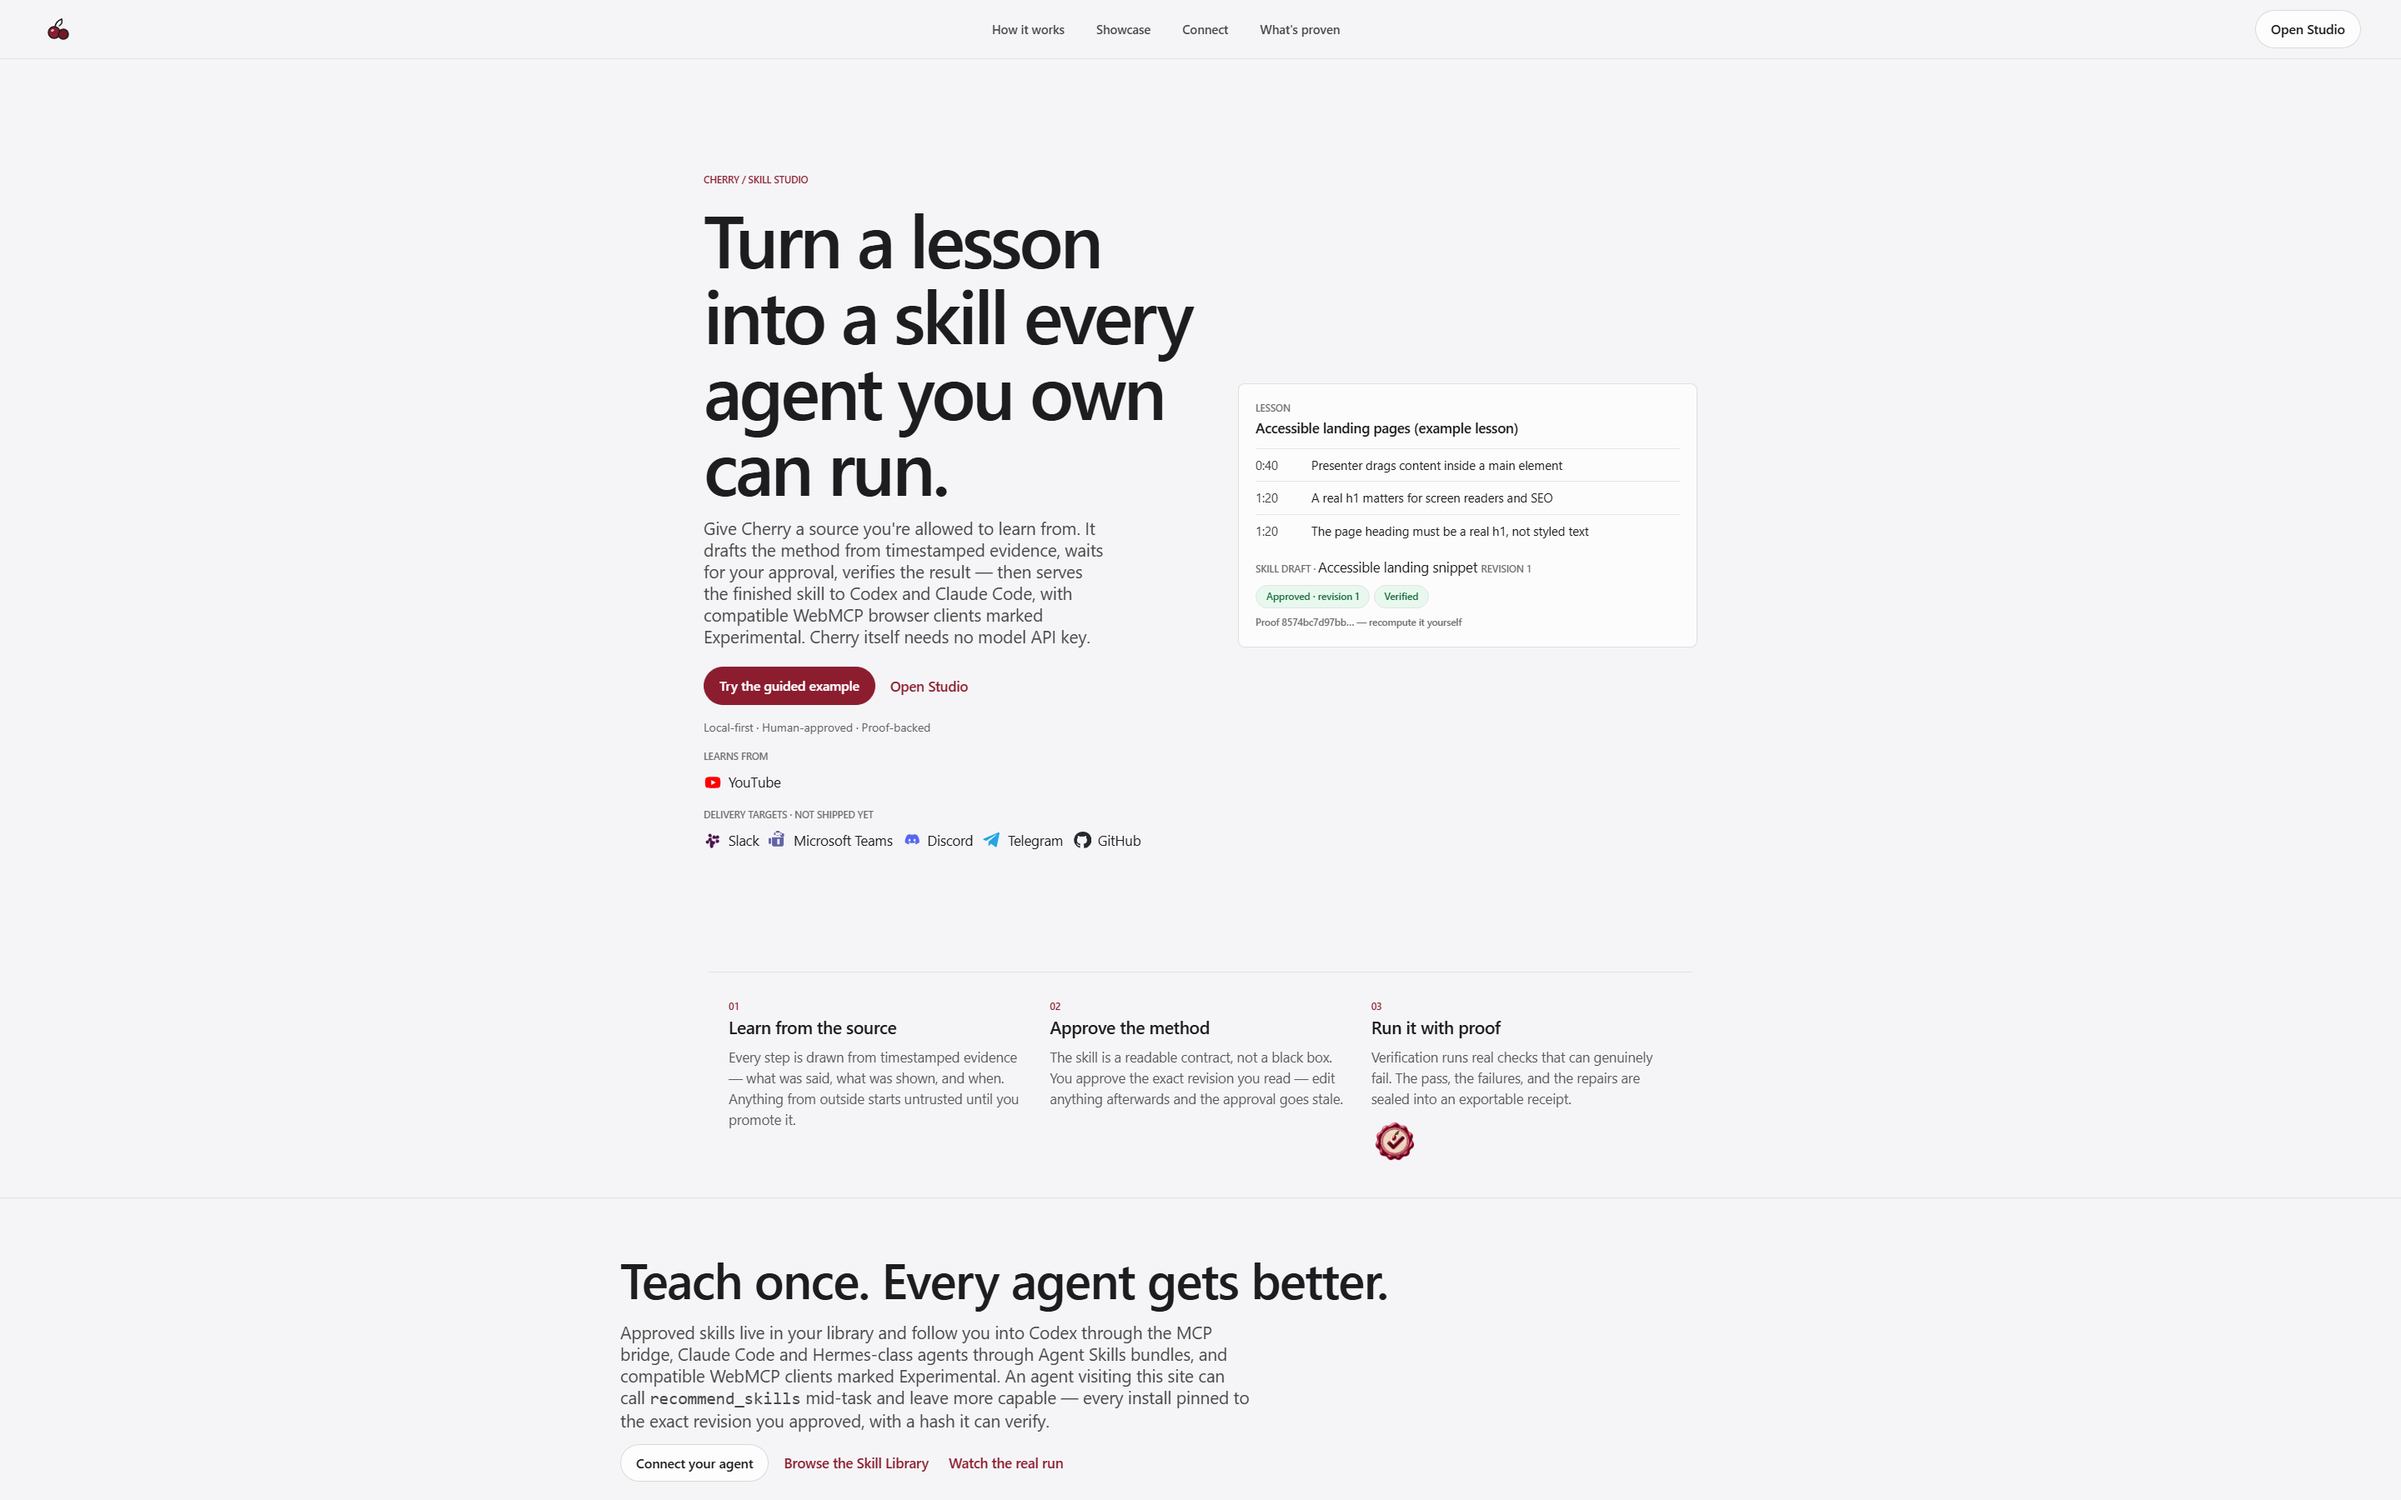
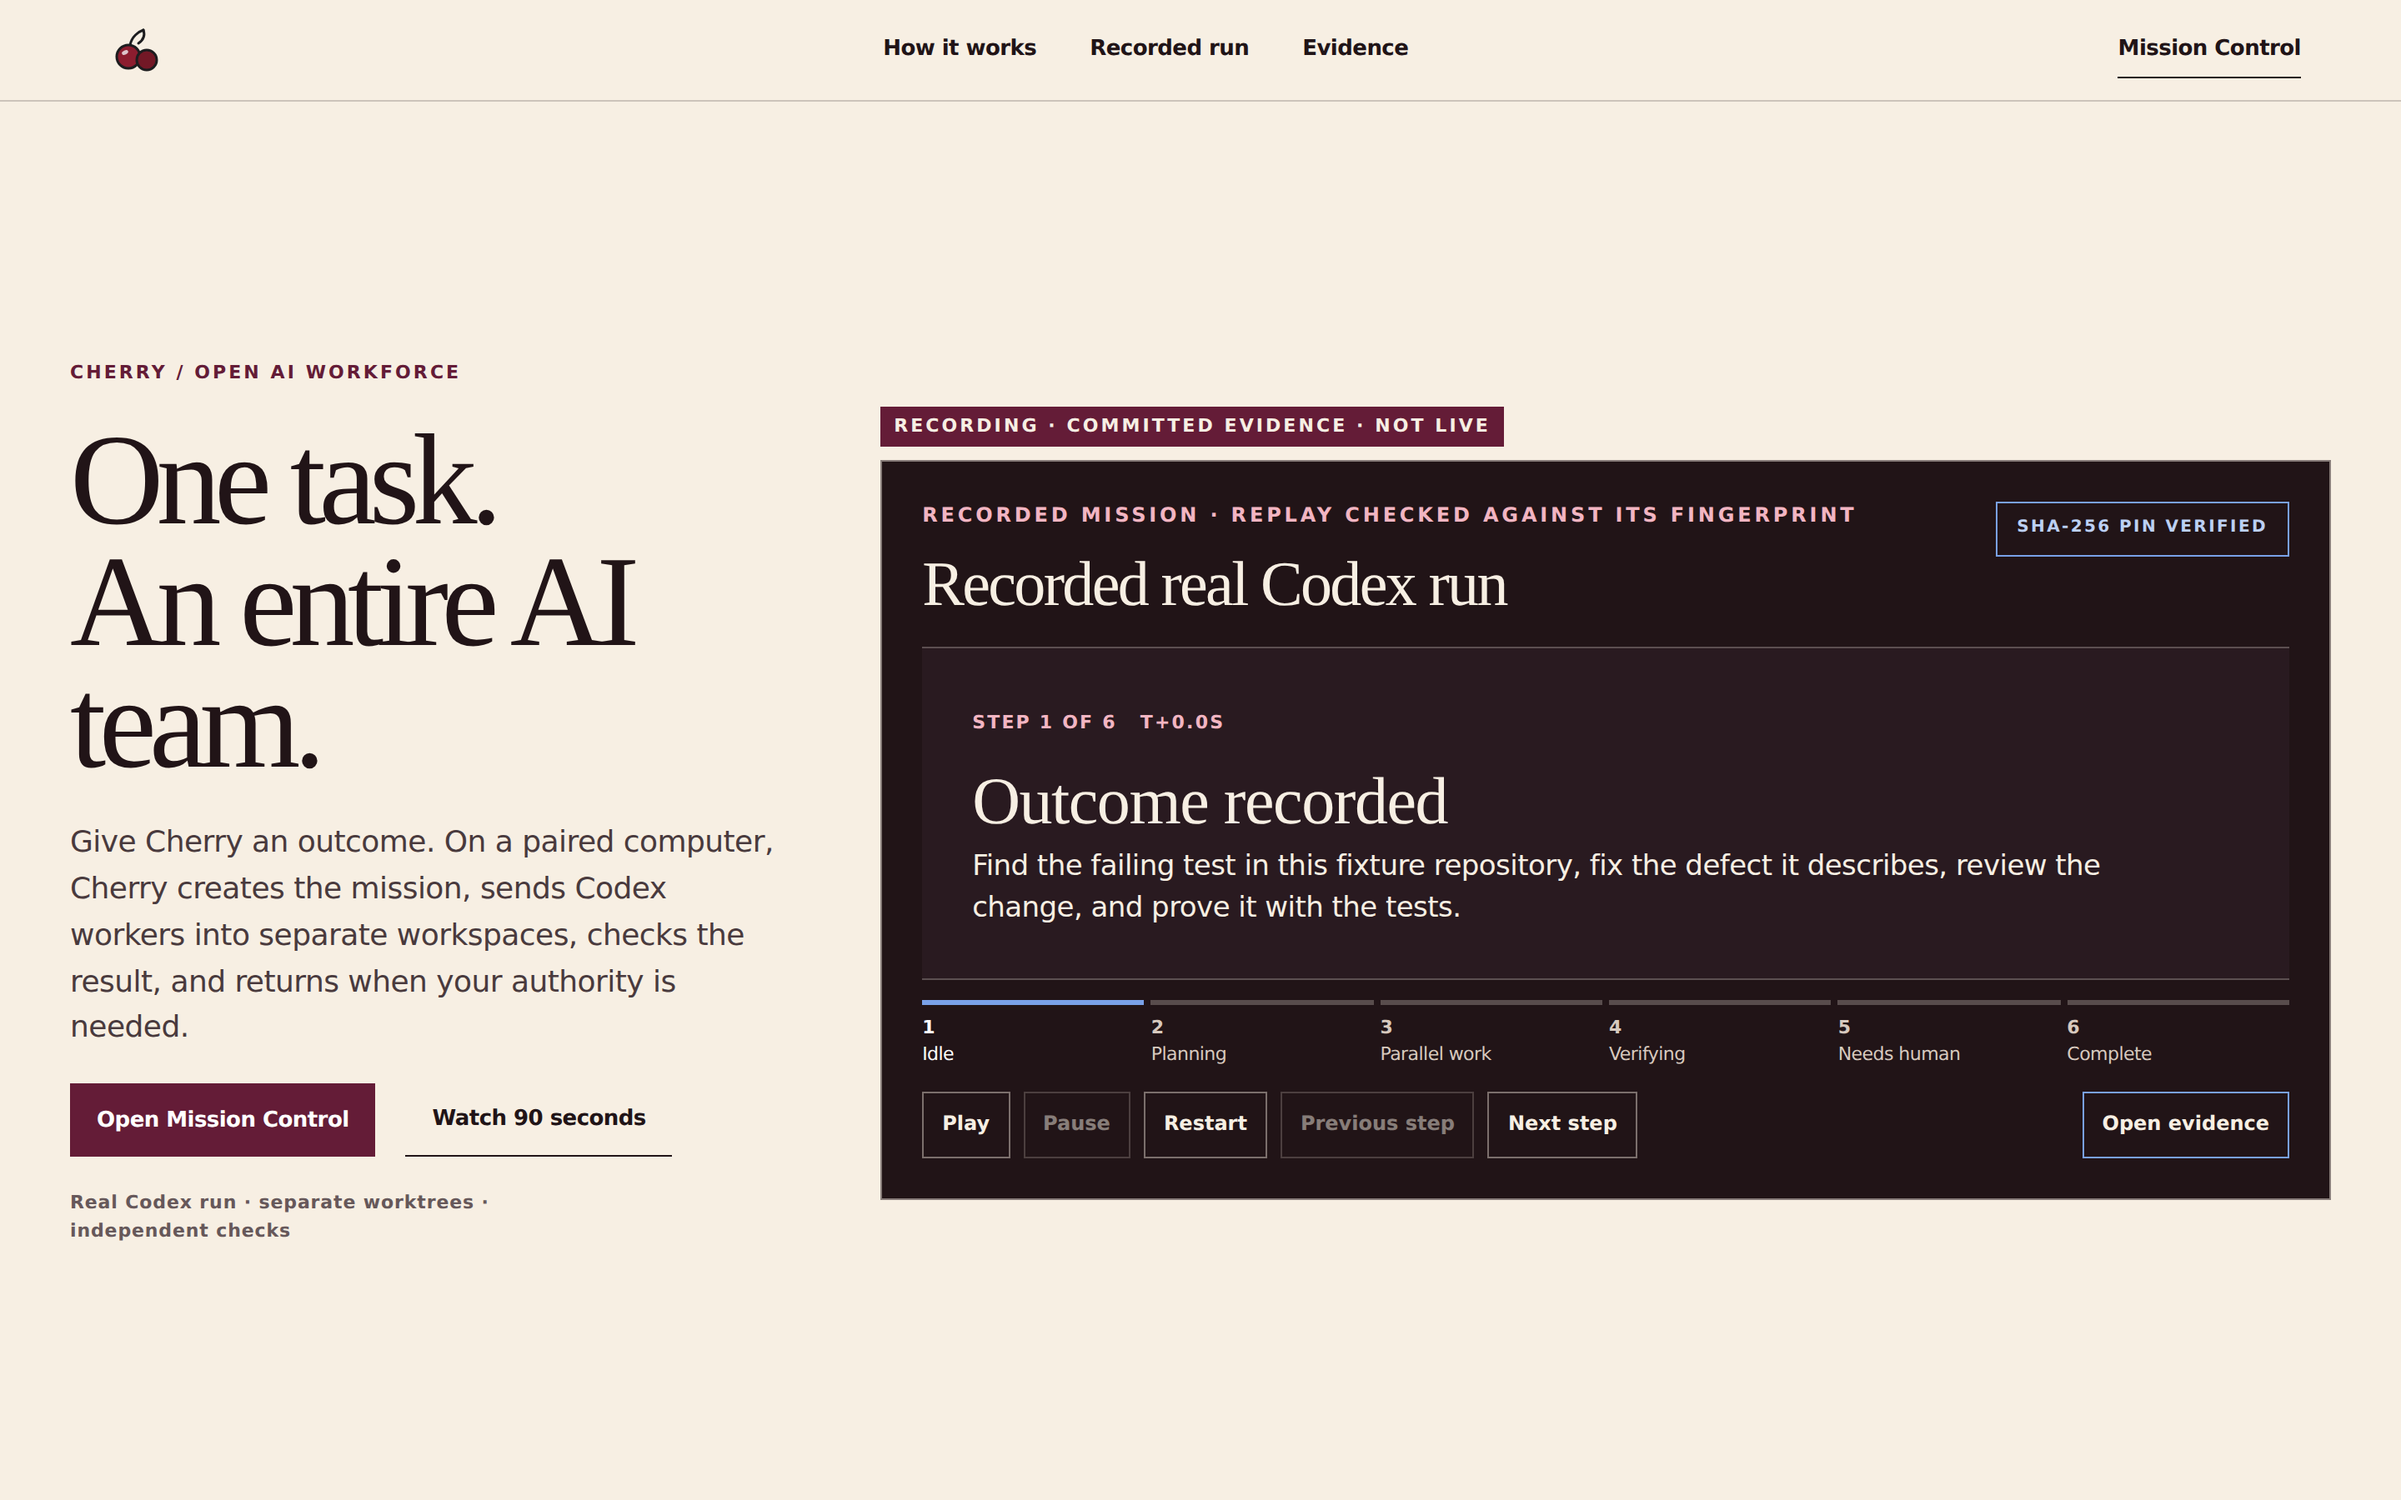
docs(readme): the repository tells the same story as the product
A judge opens the repository and the live site. The README still led
with the skill-first story ('Teach once. Cherry remembers.') while the
site leads with an outcome becoming a supervised team, and its hero
image was the landing from the previous morning. The lead now matches
what ships, with the skill library as the second beat, which is what it
is; the always-on tool count matches what registers; and the hero image
is the landing as deployed.

diff --git a/README.md b/README.md
@@ -1,27 +1,29 @@
 <p align="center">
-  <img src="docs/media/cherry-landing.png" alt="Cherry landing page, captured the morning of 2026-09-02 before the Mission Control landing" width="820">
+  <img src="docs/media/cherry-landing.png" alt="Cherry landing page: one task, an entire AI team, with the recorded real Codex run playing beside it" width="820">
 </p>
 
 # Cherry 🍒
 
-**Teach once. Cherry remembers. Every agent gets better.**
+**One task. An entire AI team. Human authority intact.**
 
-You learn your craft from creators: a YouTube lesson, an article, a post. Your agents cannot. Every
-workflow you teach an AI dies in a chat transcript, unusable in the next session and the next tool.
-
-Cherry is the layer underneath. Give it a source you are allowed to learn from. It drafts the method
-from timestamped evidence, waits for your approval on an exact revision, verifies the result with
-checks that can genuinely fail, seals it with a receipt anyone can recompute, and then serves the
-finished skill to the agents you already pay for.
+Give Cherry an outcome. It turns that outcome into a bounded plan: tasks with dependencies, a
+definition of done and a real check on each one, and a decision only you can make before anything
+public happens. On a paired computer the agents you already pay for do the work, each in its own
+isolated workspace, and nothing counts as done because an agent said so: either Cherry's own checks
+pass or a person decides.
 
 **Cherry makes no model API calls of its own and never asks for an API key.** Reasoning comes from
 the agent hosts you already pay for; transcription, when you choose it, runs on your device. Cherry
-brings the memory, the approval gates, and the proof.
+brings the plan, the isolation, the checks, the approval gates and the proof.
+
+The second half of the product is the memory. Give Cherry a source you are allowed to learn from and
+it drafts the method from timestamped evidence, waits for your approval on an exact revision,
+verifies the result with checks that can genuinely fail, seals it with a receipt anyone can
+recompute, and then serves the finished skill back to every agent you use.
 
 - **Live:** https://cherry-wine.vercel.app
-- **Judge route:** https://cherry-wine.vercel.app/showcase
-- **Watch a real run:** the uncut recording of the automated end-to-end test driving the product,
-  linked from the showcase page. Nothing staged.
+- **Judge route:** https://cherry-wine.vercel.app/showcase, a recorded real Codex run with two agents
+  working at once in separate worktrees, replayed from evidence checked against its fingerprint
 - **What is actually proven:** https://cherry-wine.vercel.app/compatibility
 
 Built for the **OpenAI WebMCP Challenge 2026**. MIT licensed. Free and open source, with no paid
@@ -31,7 +33,7 @@ tier, no account required, and no telemetry.
 
 Most agent-ready sites let an agent operate them. **Cherry's site upgrades the agent.**
 
-Three always-on WebMCP read tools serve your library to any agent that visits:
+Seven tools are registered on every page. Three of them serve your library to any agent that visits:
 
 | Tool | What it does |
 | --- | --- |

diff --git a/docs/release/FINAL_HANDOFF.md b/docs/release/FINAL_HANDOFF.md
@@ -201,7 +201,7 @@ Everything a judge or a contributor can open and check for themselves.
 | Playwright report | `docs/release/e2e-results.json` | The JSON report from the 123-journey run on the signed commit |
 | Real Codex mission capture | `docs/release/GOD_MODE_REAL_HOST_CAPTURE.md` | codex-cli 0.152.1 running two mission nodes in two worktrees with measured overlap, verified by the runner's own `node --test` |
 | Screenshots | `docs/release/screenshots/` | 81 tracked captures across landing, studio, showcase, agent view, compatibility, creators, God Mode and final QA |
-| Landing capture for README | `docs/media/cherry-landing.png` | Light Cherry Wine landing, 2880x1800, captured the morning of 2026-09-02, before the Mission Control landing |
+| Landing capture for README | `docs/media/cherry-landing.png` | The shipped landing, 2880x1800, recaptured 2026-09-03 from the deployed build |
 | Sample bundle | `docs/release/sample-bundle.zip` and `.meta.json` | A compiled Agent Skills bundle with its standalone verify script |
 | Coordination log | `docs/codex-takeover/STATUS.md` | Append-only two-agent build record: every ticket, every gate run, every bounce |
 | Guardrails | `docs/codex-takeover/05_GUARDRAILS.md` | The hard lines this project refused to cross, and why |
